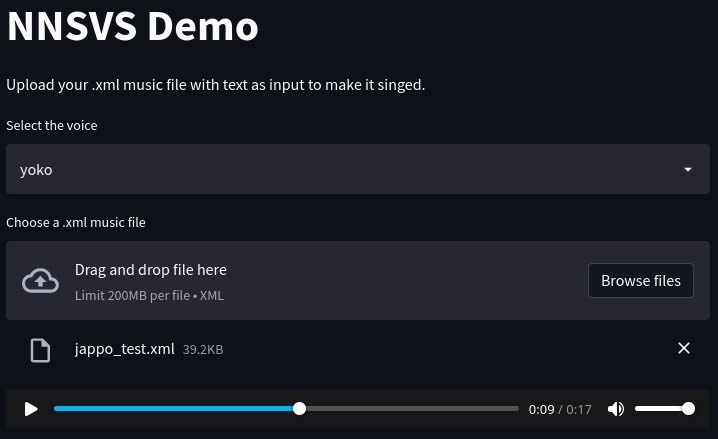
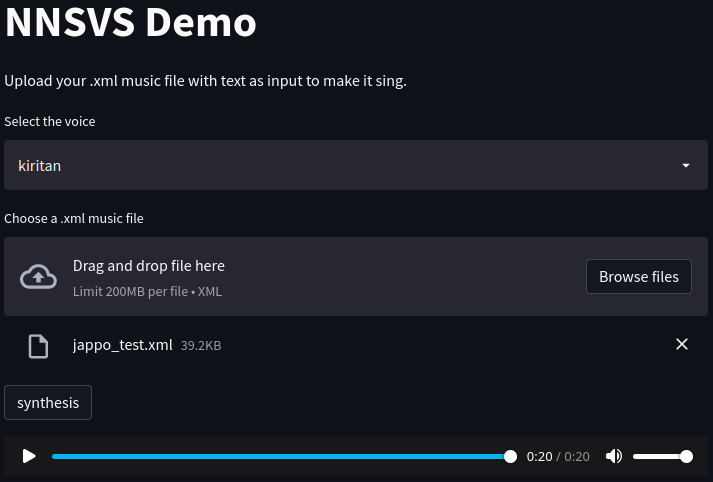
remove trim, remove unused input, use tempfile also per input

diff --git a/streamlit_demo/app.py b/streamlit_demo/app.py
@@ -1,13 +1,11 @@
 import tempfile
 
-import librosa
 import numpy as np
 import pysinsy
 import soundfile as sf
 import streamlit as st
 from nnmnkwii.io import hts
 from nnsvs.pretrained import create_svs_engine
-from nnsvs.svs import SPSVS
 
 st.title("NNSVS Demo")
 st.markdown("Upload your .xml music file with text as input to make it sing.")
@@ -23,18 +21,16 @@ uploaded_file = st.file_uploader("Choose a .xml music file", type="xml")
 if st.button("synthesis") and uploaded_file:
     with st.spinner(f"Synthesizing to wav"):
         # synthesize
-        contexts = pysinsy.extract_fullcontext(uploaded_file.name)
+        with tempfile.NamedTemporaryFile(suffix=".xml") as f:
+            f.write(uploaded_file.getbuffer())
+            contexts = pysinsy.extract_fullcontext(f.name)
         labels = hts.HTSLabelFile.create_from_contexts(contexts)
 
         engine = create_svs_engine(models[voice_option])
         wav, sr = engine.svs(labels)
 
-        wav = librosa.effects.trim(wav.astype(np.float64), top_db=40)[0].astype(
-            np.int16
-        )
-
         # show audio player
         with tempfile.NamedTemporaryFile(suffix=".wav") as f:
-            sf.write(f.name, wav, sr)
+            sf.write(f.name, wav.astype(np.int16), sr)
             with open(f.name, "rb") as wav_file:
                 st.audio(wav_file.read(), format="audio/wav")
